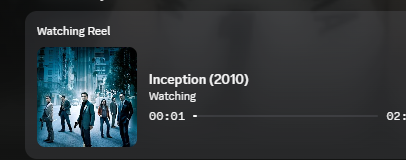
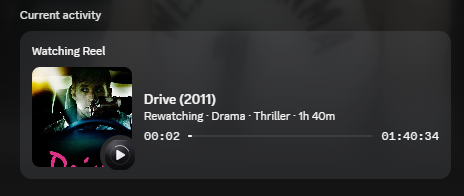
Update README and download page

diff --git a/README.md b/README.md
@@ -13,42 +13,57 @@
 </p>
 
 <p align="center">
-  <img src="screenshots/watch-party.webp" alt="A Reel watch party lobby" width="900">
+  <img src="screenshots/home.webp" alt="Reel — Home" width="960">
 </p>
 
-## What it does
-
-**Find something to watch**
-- **For You** picks built from your ratings, likes, favorites and rewatches — and they get better the more you use it
-- **Mood Match**, **Seen It** (swipe through titles you've seen), **This or That**, and **Rank** your all-time favorites
+## Find something to watch
+- **For You** picks built from your ratings, likes, favorites and rewatches — they get better the more you use Reel
+- **Tonight's pick**, **Mood Match**, **Seen It**, **This or That** and **Rank** your all-time favorites
 - Search, genres, studios, trending and top 10s
 
-**Keep track, like Letterboxd**
-- Ratings, likes, a watch diary, reviews, lists and a watchlist
-- Import your whole Letterboxd history in one go
-- **Taste Profile** — your ratings spread, how you compare to everyone else, your hot takes and watching habits
-
-**Watch**
-- Streams through Torrentio + Real-Debrid, with 4K/HDR, 5.1 audio, subtitles and automatic next episode
-- Picks up where you left off, on any of your PCs
-
-**With friends**
-- Sign in with Discord — your library syncs across every PC
-- Add friends, see what they're watching and rating, and how well your tastes match
-- **Watch parties**: share a code, everyone stays in sync, with chat, reactions and host controls
-- Your Discord profile shows what you're watching, with a button for friends to join
-
 <p align="center">
-  <img src="screenshots/taste-profile.webp" alt="Taste Profile" width="900">
+  <img src="screenshots/for-you.webp" alt="For You" width="960">
 </p>
 
+## Keep track, like Letterboxd
+- Ratings, likes, a watch diary, reviews, lists and a watchlist
+- Import your whole Letterboxd history in one go
+- **Taste Profile** — your ratings spread, where you differ from the crowd, your five-star club and watching habits
+
 <p align="center">
-  <img src="screenshots/discord-status.png" alt="Watching in Reel on Discord" width="420">
+  <img src="screenshots/taste-profile.webp" alt="Taste Profile" width="960">
+</p>
+
+## Watch
+- Streams through Torrentio + Real-Debrid, in up to 4K HDR with 7.1 audio, subtitles and automatic next episode
+- Picks up where you left off — on any of your PCs
+
+<p align="center">
+  <img src="screenshots/player.webp" alt="The player" width="960">
+</p>
+
+## With friends
+- Sign in with Discord and your library syncs across every PC
+- Add friends, see what they're watching and rating, and how well your tastes match
+- **Watch parties** — share a code or link, everyone stays in sync, with chat, reactions and host controls
+- Your Discord profile shows what you're watching
+
+<p align="center">
+  <img src="screenshots/watch-party.webp" alt="A watch party lobby" width="960">
+</p>
+<p align="center">
+  <img src="screenshots/discord-status.png" alt="Watching in Reel on Discord" width="460">
+</p>
+
+## Live TV (optional)
+Turn it on in Settings and connect your own IPTV subscription — **Game Day** shows every live game with scores and picks the right channel for you.
+
+<p align="center">
+  <img src="screenshots/live-tv.webp" alt="Game Day" width="960">
 </p>
 
 ## Install
-
-1. Download **Reel-Setup.exe** from the [latest release](https://github.com/saintzdid12/reel/releases/latest) (or from the [download page](https://saintzdid12.github.io/reel)).
+1. Download **Reel-Setup.exe** from the [latest release](https://github.com/saintzdid12/reel/releases/latest) (or the [download page](https://saintzdid12.github.io/reel)).
 2. Windows may say *"Windows protected your PC"* the first time — click **More info → Run anyway**.
 3. Reel walks you through setup: a free TMDB key and your Real-Debrid account.
 
@@ -57,7 +72,6 @@ After that, Reel **updates itself** — new versions download in the background 
 **Needs:** Windows 10 or 11 · a [Real-Debrid](https://real-debrid.com) account · a free [TMDB](https://www.themoviedb.org/settings/api) API key
 
 ## Privacy
-
 - Your API keys and Real-Debrid login stay on your PC, encrypted.
 - A Reel account is optional. If you sign in, only your library (ratings, diary, lists, watchlist) and profile are synced — never your keys or what you stream.
 - Friends only see what you choose to share, and any title can be hidden from them.
